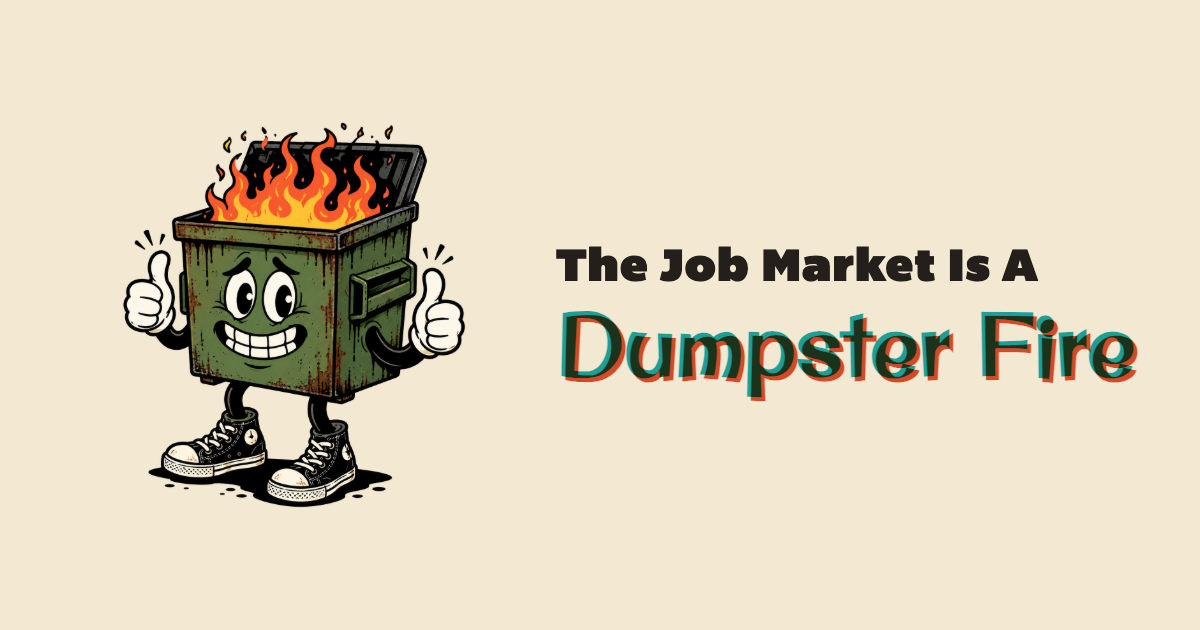
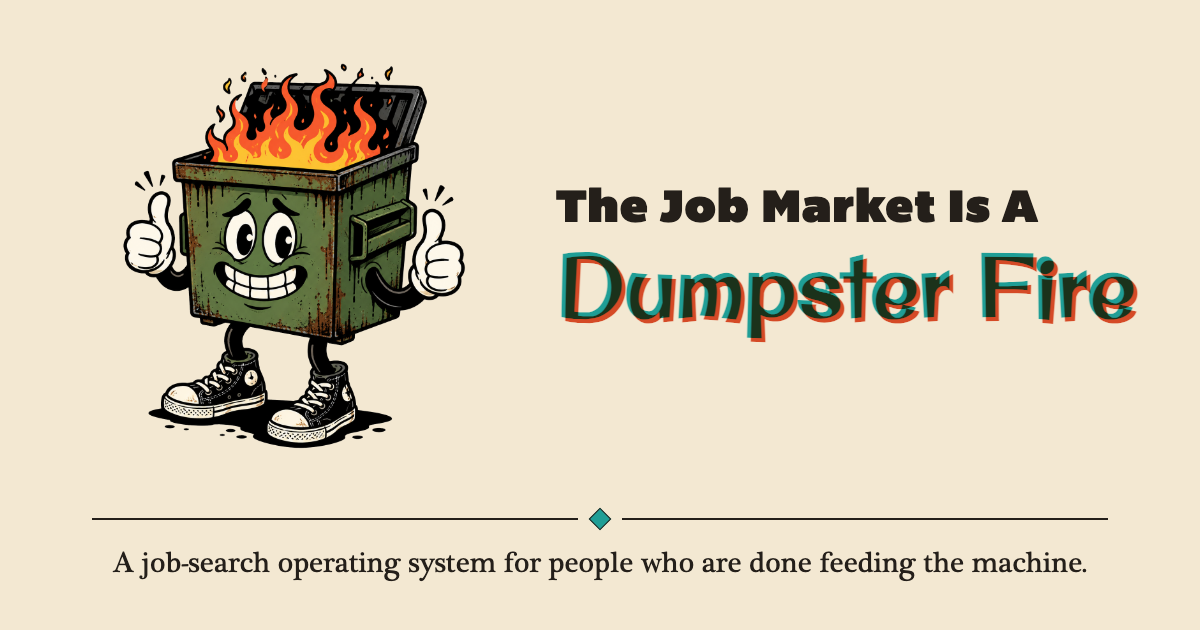
feat(og): add divider + tagline to the share card artwork
Approved in Claude Design (Sharing / og-share-compose). Adds the hero divider
(ink rule + centered teal diamond) and the tagline "A job-search operating
system for people who are done feeding the machine." along the bottom of the
1200x630 frame, centered on the same 92px content margin the mascot sets.

Mascot, lockup, and the multiply overprint are unchanged from the approved
2026-07-14/07-15 artwork; the lockup row is now flex:1 above the footer block
so it stays optically centered in the reduced height.

Adds scripts/render-og.sh so public/og-share.png is reproducible from the
compose source. Chrome is required because the wordmark registration uses
mix-blend-mode:multiply. OG metadata and share copy are untouched.

diff --git a/design-system/components/og-share-compose.html b/design-system/components/og-share-compose.html
@@ -13,10 +13,15 @@
      exactly like the homepage renders it. Render at 1200×630, deviceScaleFactor 1. */
   @font-face { font-family:"Original Surfer"; src:url("../fonts/OriginalSurfer-Regular.ttf") format("truetype"); }
   @font-face { font-family:"Bemio"; src:url("../fonts/Bemio.otf") format("opentype"); }
+  @font-face { font-family:"Plantagenet Cherokee"; src:url("../fonts/PlantagenetCherokee.ttf") format("truetype"); }
 
   html, body { margin:0; padding:0; }
   .stage { position:relative; width:1200px; height:630px; overflow:hidden; box-sizing:border-box;
-    background-color:var(--c-paper); display:flex; align-items:center; }
+    background-color:var(--c-paper); display:flex; flex-direction:column; }
+
+  /* Lockup row keeps the approved 2026-07-14 geometry; the footer block below is
+     subtracted from its height so mascot + wordmark stay optically centered. */
+  .main { flex:1 1 auto; min-height:0; display:flex; align-items:center; }
 
   .mascot { flex:none; width:400px; height:auto; margin-left:92px; }
 
@@ -29,14 +34,31 @@
   .word .base { color:var(--c-teal); }
   .word .slip { position:absolute; left:0; top:0; color:var(--c-tomato);
     transform:translate(0.0417em, 0.0469em); mix-blend-mode:multiply; }
+
+  /* Footer · hero divider (ink rule + centered teal diamond) over the tagline,
+     centered on the 92px content margin the mascot sets. */
+  .footer { flex:none; width:1016px; margin:0 auto; padding-bottom:46px; }
+  .rule { display:flex; align-items:center; gap:14px; }
+  .rule::before, .rule::after { content:""; flex:1 1 auto; height:var(--line-reg); background:var(--c-ink); }
+  .ruleDot { flex:none; width:14px; height:14px; background:var(--c-teal);
+    border:var(--line-hair) solid var(--c-ink); transform:rotate(45deg); }
+  .tagline { margin:22px 0 0; text-align:center; color:var(--c-ink);
+    font-family:"Plantagenet Cherokee", var(--font-body); font-size:29px; line-height:1.2;
+    white-space:nowrap; }
 </style>
 </head>
 <body>
   <div class="stage">
-    <img class="mascot" src="../dumpsterfireguy.png" alt="" />
-    <div class="lockup">
-      <p class="lead">The Job Market Is A</p>
-      <h1 class="word"><span class="plate base">Dumpster Fire</span><span class="plate slip" aria-hidden="true">Dumpster Fire</span></h1>
+    <div class="main">
+      <img class="mascot" src="../dumpsterfireguy.png" alt="" />
+      <div class="lockup">
+        <p class="lead">The Job Market Is A</p>
+        <h1 class="word"><span class="plate base">Dumpster Fire</span><span class="plate slip" aria-hidden="true">Dumpster Fire</span></h1>
+      </div>
+    </div>
+    <div class="footer">
+      <div class="rule" aria-hidden="true"><span class="ruleDot"></span></div>
+      <p class="tagline">A job-search operating system for people who are done feeding the machine.</p>
     </div>
   </div>
 </body>
